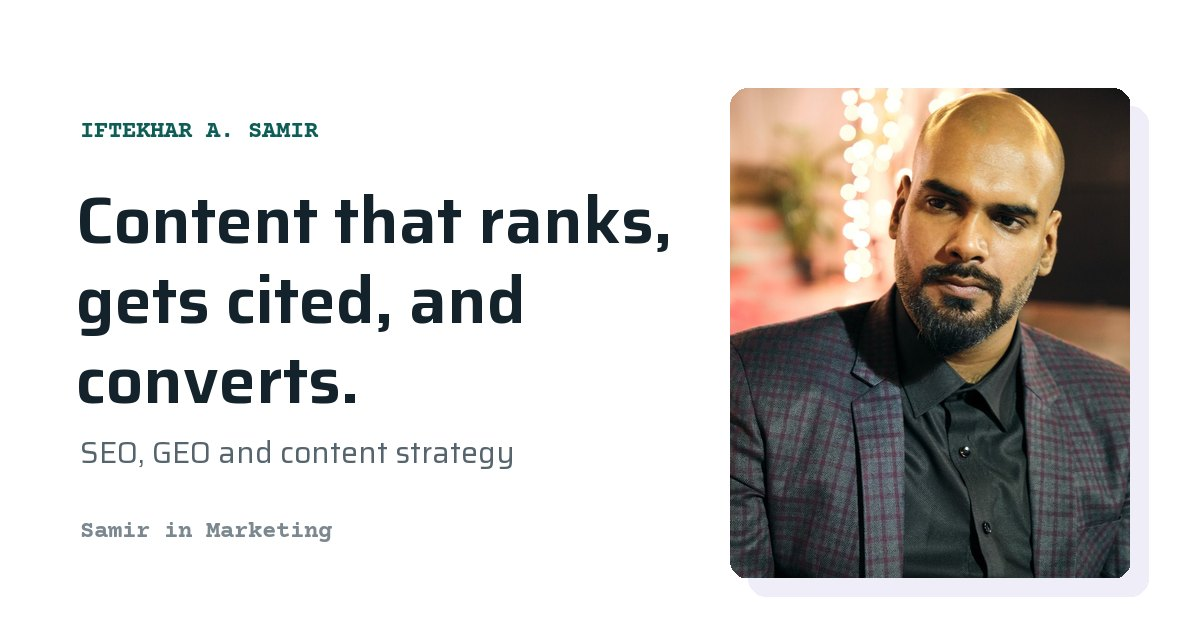
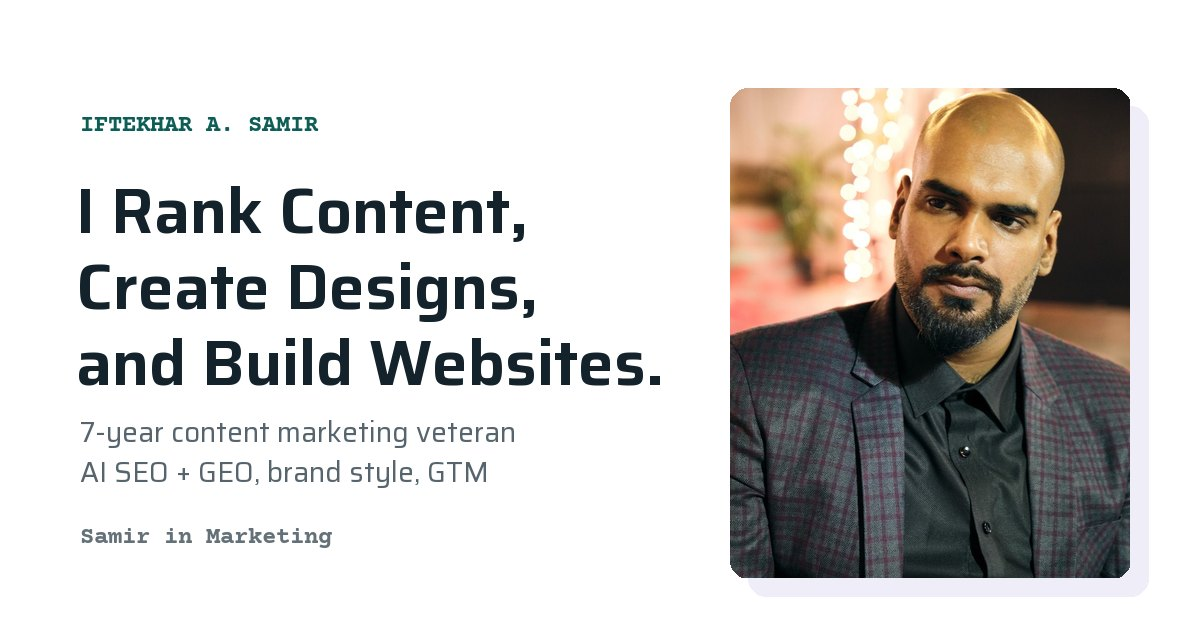
Rewrite hero and About with the owner's copy; add places block
Hero: full-width two-line headline, the long sub-headline beside a square
portrait so the CTAs stay above the fold at 1280x720. About: removes the
repeated years line and adds a 'Now learning' card (RAG, n8n). Skills
becomes 'My favourite places to hang out' with one factual line per place.
Meta, Open Graph image and Person JSON-LD updated to the new positioning.

diff --git a/index.html b/index.html
@@ -4,7 +4,7 @@
 <meta charset="utf-8">
 <meta name="viewport" content="width=device-width, initial-scale=1">
 <title>Iftekhar A. Samir · Senior Content Marketing Strategist (SEO &amp; GEO)</title>
-<meta name="description" content="Portfolio of Iftekhar A. Samir, a senior content marketing strategist for SaaS and WordPress brands: SEO, GEO, launches and 17 case studies with the method behind each.">
+<meta name="description" content="Iftekhar A. Samir ranks content, creates designs and builds websites: a 7-year content marketing veteran in SEO, GEO, brand style and GTM. 17 case studies.">
 <meta name="author" content="Iftekhar A. Samir">
 <meta name="robots" content="index, follow, max-image-preview:large">
 <link rel="canonical" href="https://samirinmarketing.github.io/resume-and-experience/">
@@ -12,13 +12,13 @@
 
 <meta property="og:type" content="profile">
 <meta property="og:site_name" content="Samir in Marketing">
-<meta property="og:title" content="Iftekhar A. Samir · Content that ranks, gets cited, and converts">
-<meta property="og:description" content="SEO, GEO and content strategy for SaaS and WordPress brands. 17 case studies with the method behind each.">
+<meta property="og:title" content="Iftekhar A. Samir · I Rank Content, Create Designs, and Build Websites">
+<meta property="og:description" content="A 7-year content marketing veteran: content optimization, brand style, AI SEO + GEO, content strategy and GTM. 17 case studies.">
 <meta property="og:url" content="https://samirinmarketing.github.io/resume-and-experience/">
 <meta property="og:image" content="https://samirinmarketing.github.io/resume-and-experience/assets/og-image.jpg">
 <meta property="og:image:width" content="1200">
 <meta property="og:image:height" content="630">
-<meta property="og:image:alt" content="Iftekhar A. Samir: content that ranks, gets cited, and converts">
+<meta property="og:image:alt" content="Iftekhar A. Samir: I rank content, create designs, and build websites">
 <meta property="profile:first_name" content="Iftekhar">
 <meta property="profile:last_name" content="Ahmed">
 <meta name="twitter:card" content="summary_large_image">
@@ -57,12 +57,12 @@
       "name": "Iftekhar Ahmed",
       "alternateName": ["Iftekhar A. Samir", "Samir in Marketing"],
       "jobTitle": "Senior Content Marketing Executive & Strategist",
-      "description": "Content marketing strategist for SaaS and WordPress brands, working across SEO, generative engine optimization (GEO), product launches and content strategy.",
+      "description": "Content marketing strategist who ranks content, creates designs and builds websites for SaaS and WordPress brands: SEO, generative engine optimization (GEO), brand style, content strategy and GTM.",
       "url": "https://samirinmarketing.github.io/resume-and-experience/",
       "image": "https://samirinmarketing.github.io/resume-and-experience/assets/profile.webp",
       "email": "mailto:samirinmarketing@gmail.com",
       "address": { "@type": "PostalAddress", "addressLocality": "Dhaka", "addressCountry": "BD" },
-      "knowsAbout": ["Content strategy", "Search engine optimization", "Generative engine optimization", "Keyword research", "Copywriting", "Go-to-market strategy", "Email marketing", "WordPress plugin marketing"],
+      "knowsAbout": ["Content strategy", "Content optimization", "Search engine optimization", "Generative engine optimization", "Brand style", "Rebranding", "Web analytics", "Social media marketing", "Go-to-market strategy", "WordPress plugin marketing", "SaaS marketing", "Copywriting"],
       "knowsLanguage": ["en", "ja"],
       "sameAs": [
         "https://www.linkedin.com/in/iftekhar-ahmed-in-marketing/",
@@ -100,10 +100,12 @@
 <!-- ============================ 1 · HERO ============================ -->
 <section class="hero" id="hero">
   <div class="wrap hero__grid">
-    <div class="rv">
+    <div class="hero__title rv">
       <p class="label">Iftekhar A. Samir · Senior Content Marketing Strategist</p>
-      <h1>Content that ranks, gets <em class="em">cited</em>, and converts.</h1>
-      <p class="hero__sub">SEO, GEO and content strategy for SaaS and WordPress brands, from plugin launches to blog programmes built for AI citations.</p>
+      <h1>I Rank Content, Create <em class="em">Designs</em>, and Build Websites.</h1>
+    </div>
+    <div class="hero__copy rv">
+      <p class="hero__sub">A 7-year content marketing veteran with real-time skills in content optimization, brand style, AI SEO + GEO, content strategy &amp; creation, GTM strategies and more.</p>
       <div class="hero__ctas">
         <a class="btn btn--primary" href="Iftekhar-Ahmed-Resume.pdf" download>Download CV <span class="arrow" aria-hidden="true">↓</span></a>
         <a class="btn btn--ghost" href="#book">Book a call</a>
@@ -124,24 +126,45 @@
     <div class="sec__head rv"><h2>A bit about my work</h2></div>
     <div class="about">
       <div class="about__text rv">
-        <p>I'm a content marketing executive and strategist with <strong>7+ years</strong> across the SaaS and WordPress industries. I've worked inside creative marketing agencies and product teams, serving <strong>50+ brands</strong> across local and international markets: WordPress plugin companies, a home construction agency in Scotland, and the Bangladesh Air Force Museum.</p>
+        <p>I've spent my career inside creative marketing agencies and product teams, serving <strong>50+ brands</strong> across local and international markets: WordPress plugin companies, a home construction agency in Scotland, and the Bangladesh Air Force Museum.</p>
         <p>My work spans on-page and off-page SEO, keyword research and clustering, content strategy and, more recently, generative engine optimization (GEO): making sure brands show up correctly when AI tools answer questions about their category. I hold a HubSpot Content Marketing Certification and received a Sync Leader Award (2024) and a Team Leader Award (2022).</p>
         <p>Right now I'm looking for a senior content role where I can own both the strategy and the execution, somewhere that is serious about search, not just publishing volume.</p>
       </div>
-      <figure class="avatar rv">
-        <picture>
-          <source srcset="assets/avatar.webp" type="image/webp">
-          <img src="avatar-illustration.jpg" width="480" height="480" alt="Illustration of Iftekhar working at a laptop" loading="lazy">
-        </picture>
-      </figure>
+      <aside class="about__side rv" aria-label="At a glance">
+        <figure class="avatar">
+          <picture>
+            <source srcset="assets/avatar.webp" type="image/webp">
+            <img src="avatar-illustration.jpg" width="480" height="480" alt="Illustration of Iftekhar working at a laptop" loading="lazy">
+          </picture>
+        </figure>
+        <div class="learning">
+          <p class="learning__head"><i aria-hidden="true"></i><span class="data">Now learning</span></p>
+          <ul>
+            <li><b>RAG</b><span>Retrieval-augmented generation</span></li>
+            <li><b>n8n</b><span>Workflow automation</span></li>
+          </ul>
+        </div>
+      </aside>
     </div>
   </div>
 </section>
 
-<!-- ============================ 3 · SKILLS ============================ -->
+<!-- ============================ 3 · SKILLS: places + skills ============================ -->
 <section class="sec" id="skills">
   <div class="wrap">
-    <div class="sec__head rv"><h2>What I do</h2></div>
+    <div class="sec__head rv">
+      <h2>My favourite places to <em class="em">hang out</em></h2>
+      <p>WordPress, SaaS, social media, web analytics and rebranding. Where each one shows up in my work:</p>
+    </div>
+    <ol class="places rv">
+      <li><span class="places__name">WordPress</span><span class="places__note">Plugin launches, repository listings and readmes for Eventin, WP Timetics and WPCafe, plus a 39-brand Black Friday roundup.</span></li>
+      <li><span class="places__name">SaaS</span><span class="places__note">GTM copy, comparison pages and plugin-to-SaaS positioning for Timetics.ai.</span></li>
+      <li><span class="places__name">Social Media</span><span class="places__note">Bilingual content for restaurants, a fashion brand and the Bangladesh Air Force; social strategy for 30 brands at Markosis.</span></li>
+      <li><span class="places__name">Web Analytics</span><span class="places__note">GA4, Search Console and Tag Manager setups, ranking reports and AI citation tracking.</span></li>
+      <li><span class="places__name">Rebranding</span><span class="places__note">Brand copy, voice and style: homepage rewrites, brand planning and creative direction.</span></li>
+    </ol>
+
+    <h3 class="skillset__title rv">The skills I bring there</h3>
     <div class="skillset rv">
       <div>
         <h3>Strategy and leadership</h3>

diff --git a/site.css b/site.css
@@ -141,28 +141,48 @@ em.em{font-style:italic;font-weight:500;padding-right:.04em}
 .label{font:700 var(--t-xs)/1.2 var(--font-data);color:var(--teal);letter-spacing:.04em}
 
 /* ---------- 6. Hero ---------- */
-.hero{padding:clamp(2.75rem, 1.5rem + 5vw, 6rem) 0 var(--section)}
-.hero__grid{display:grid;grid-template-columns:minmax(0,1.2fr) minmax(0,.8fr);gap:clamp(2rem,1rem + 4vw,5rem);align-items:center}
-.hero h1{font-size:var(--t-display);line-height:1.03;letter-spacing:-.035em;padding-bottom:.06em;margin-top:var(--s4)}
-.hero__sub{font-size:1.1875rem;color:var(--ink-soft);max-width:42ch;margin-top:var(--s5)}
+/* Full-width headline on top (2 lines), then the long sub-headline + CTAs beside a square portrait. */
+.hero{padding:clamp(2.5rem, 1.5rem + 4vw, 5rem) 0 var(--section)}
+.hero__grid{display:grid;grid-template-columns:minmax(0,1fr) minmax(220px,320px);grid-template-areas:"title title" "copy photo";
+  column-gap:clamp(2rem,1rem + 5vw,6rem);row-gap:clamp(1.5rem,1rem + 1.6vw,2.25rem);align-items:start}
+.hero__title{grid-area:title}
+.hero__copy{grid-area:copy;max-width:54ch;padding-top:var(--s2)}
+.hero .portrait{grid-area:photo}
+.hero h1{font-size:clamp(2.4rem, 1.25rem + 4.1vw, 4.1rem);line-height:1.04;letter-spacing:-.035em;padding-bottom:.06em;margin-top:var(--s4);max-width:24ch}
+.hero__sub{font-size:clamp(1.0625rem, 1rem + .35vw, 1.25rem);line-height:1.6;color:var(--ink-soft)}
 .hero__ctas{display:flex;flex-wrap:wrap;gap:var(--s3);margin-top:var(--s6)}
-.portrait{position:relative;isolation:isolate;max-width:440px;justify-self:end;width:100%}
-.portrait img{width:100%;aspect-ratio:760/931;object-fit:cover;border-radius:var(--r-card);box-shadow:var(--e3)}
-.portrait::before{content:"";position:absolute;inset:16px -16px -16px 16px;border-radius:var(--r-card);background:var(--wash-lavender);z-index:-1}
+.portrait{position:relative;isolation:isolate;max-width:320px;justify-self:end;width:100%}
+.portrait img{width:100%;aspect-ratio:1;object-fit:cover;object-position:50% 18%;border-radius:var(--r-card);box-shadow:var(--e3)}
+.portrait::before{content:"";position:absolute;inset:14px -14px -14px 14px;border-radius:var(--r-card);background:var(--wash-lavender);z-index:-1}
 @media (max-width:860px){
-  .hero__grid{grid-template-columns:1fr}
-  .portrait{justify-self:start;max-width:300px;order:2}
-  .hero__sub{font-size:1.0625rem}
+  .hero__grid{grid-template-columns:1fr;grid-template-areas:"title" "copy" "photo"}
+  .portrait{justify-self:start;max-width:280px}
 }
 
 /* ---------- 7. About ---------- */
 .about{display:grid;grid-template-columns:minmax(0,1fr) 280px;gap:clamp(2rem,1rem + 4vw,5rem);align-items:start}
 .about__text{display:grid;gap:var(--s4);font-size:1.0625rem;color:var(--ink-soft);max-width:62ch}
 .about__text strong{color:var(--ink);font-weight:600}
+.about__side{display:grid;gap:var(--s4)}
 .avatar{border-radius:var(--r-card);background:var(--wash-sand);padding:var(--s3)}
 .avatar img{border-radius:10px;aspect-ratio:1;object-fit:cover}
-.avatar figcaption{font-size:var(--t-xs);color:var(--ink-muted);padding:var(--s3) var(--s2) var(--s1)}
-@media (max-width:860px){ .about{grid-template-columns:1fr} .avatar{max-width:240px} }
+.learning{border:1px solid var(--hairline);border-radius:var(--r-card);padding:var(--s4) var(--s5);display:grid;gap:var(--s3)}
+.learning__head{display:flex;align-items:center;gap:.5rem;color:var(--teal)}
+.learning__head i{width:8px;height:8px;border-radius:50%;background:var(--d2);box-shadow:0 0 0 3px var(--wash-lavender)}
+.learning ul{list-style:none;padding:0;display:grid;gap:var(--s3)}
+.learning li{display:grid;gap:0}
+.learning b{font-weight:600}
+.learning span{font-size:var(--t-xs);color:var(--ink-soft)}
+@media (max-width:860px){ .about{grid-template-columns:1fr} .about__side{grid-template-columns:200px minmax(0,1fr);align-items:start;max-width:520px} }
+@media (max-width:480px){ .about__side{grid-template-columns:1fr;max-width:260px} }
+
+/* places: "my favourite places to hang out" */
+.places{list-style:none;padding:0;border-top:1px solid var(--hairline);margin-bottom:var(--s8)}
+.places li{display:grid;grid-template-columns:minmax(0,5fr) minmax(0,7fr);gap:var(--s5);align-items:baseline;padding:var(--s5) 0;border-bottom:1px solid var(--hairline)}
+.places__name{font:600 clamp(1.5rem,1.1rem + 1.6vw,2.4rem)/1.1 var(--font-sans);letter-spacing:-.025em;font-variation-settings:"wdth" 110}
+.places__note{color:var(--ink-soft);max-width:56ch}
+@media (max-width:700px){ .places li{grid-template-columns:1fr;gap:var(--s2)} }
+.skillset__title{font-size:var(--t-h3);margin-bottom:var(--s5)}
 
 /* ---------- 8. Skills / tools / brands ---------- */
 .skillset{display:grid;grid-template-columns:repeat(3,minmax(0,1fr));gap:var(--s6)}
